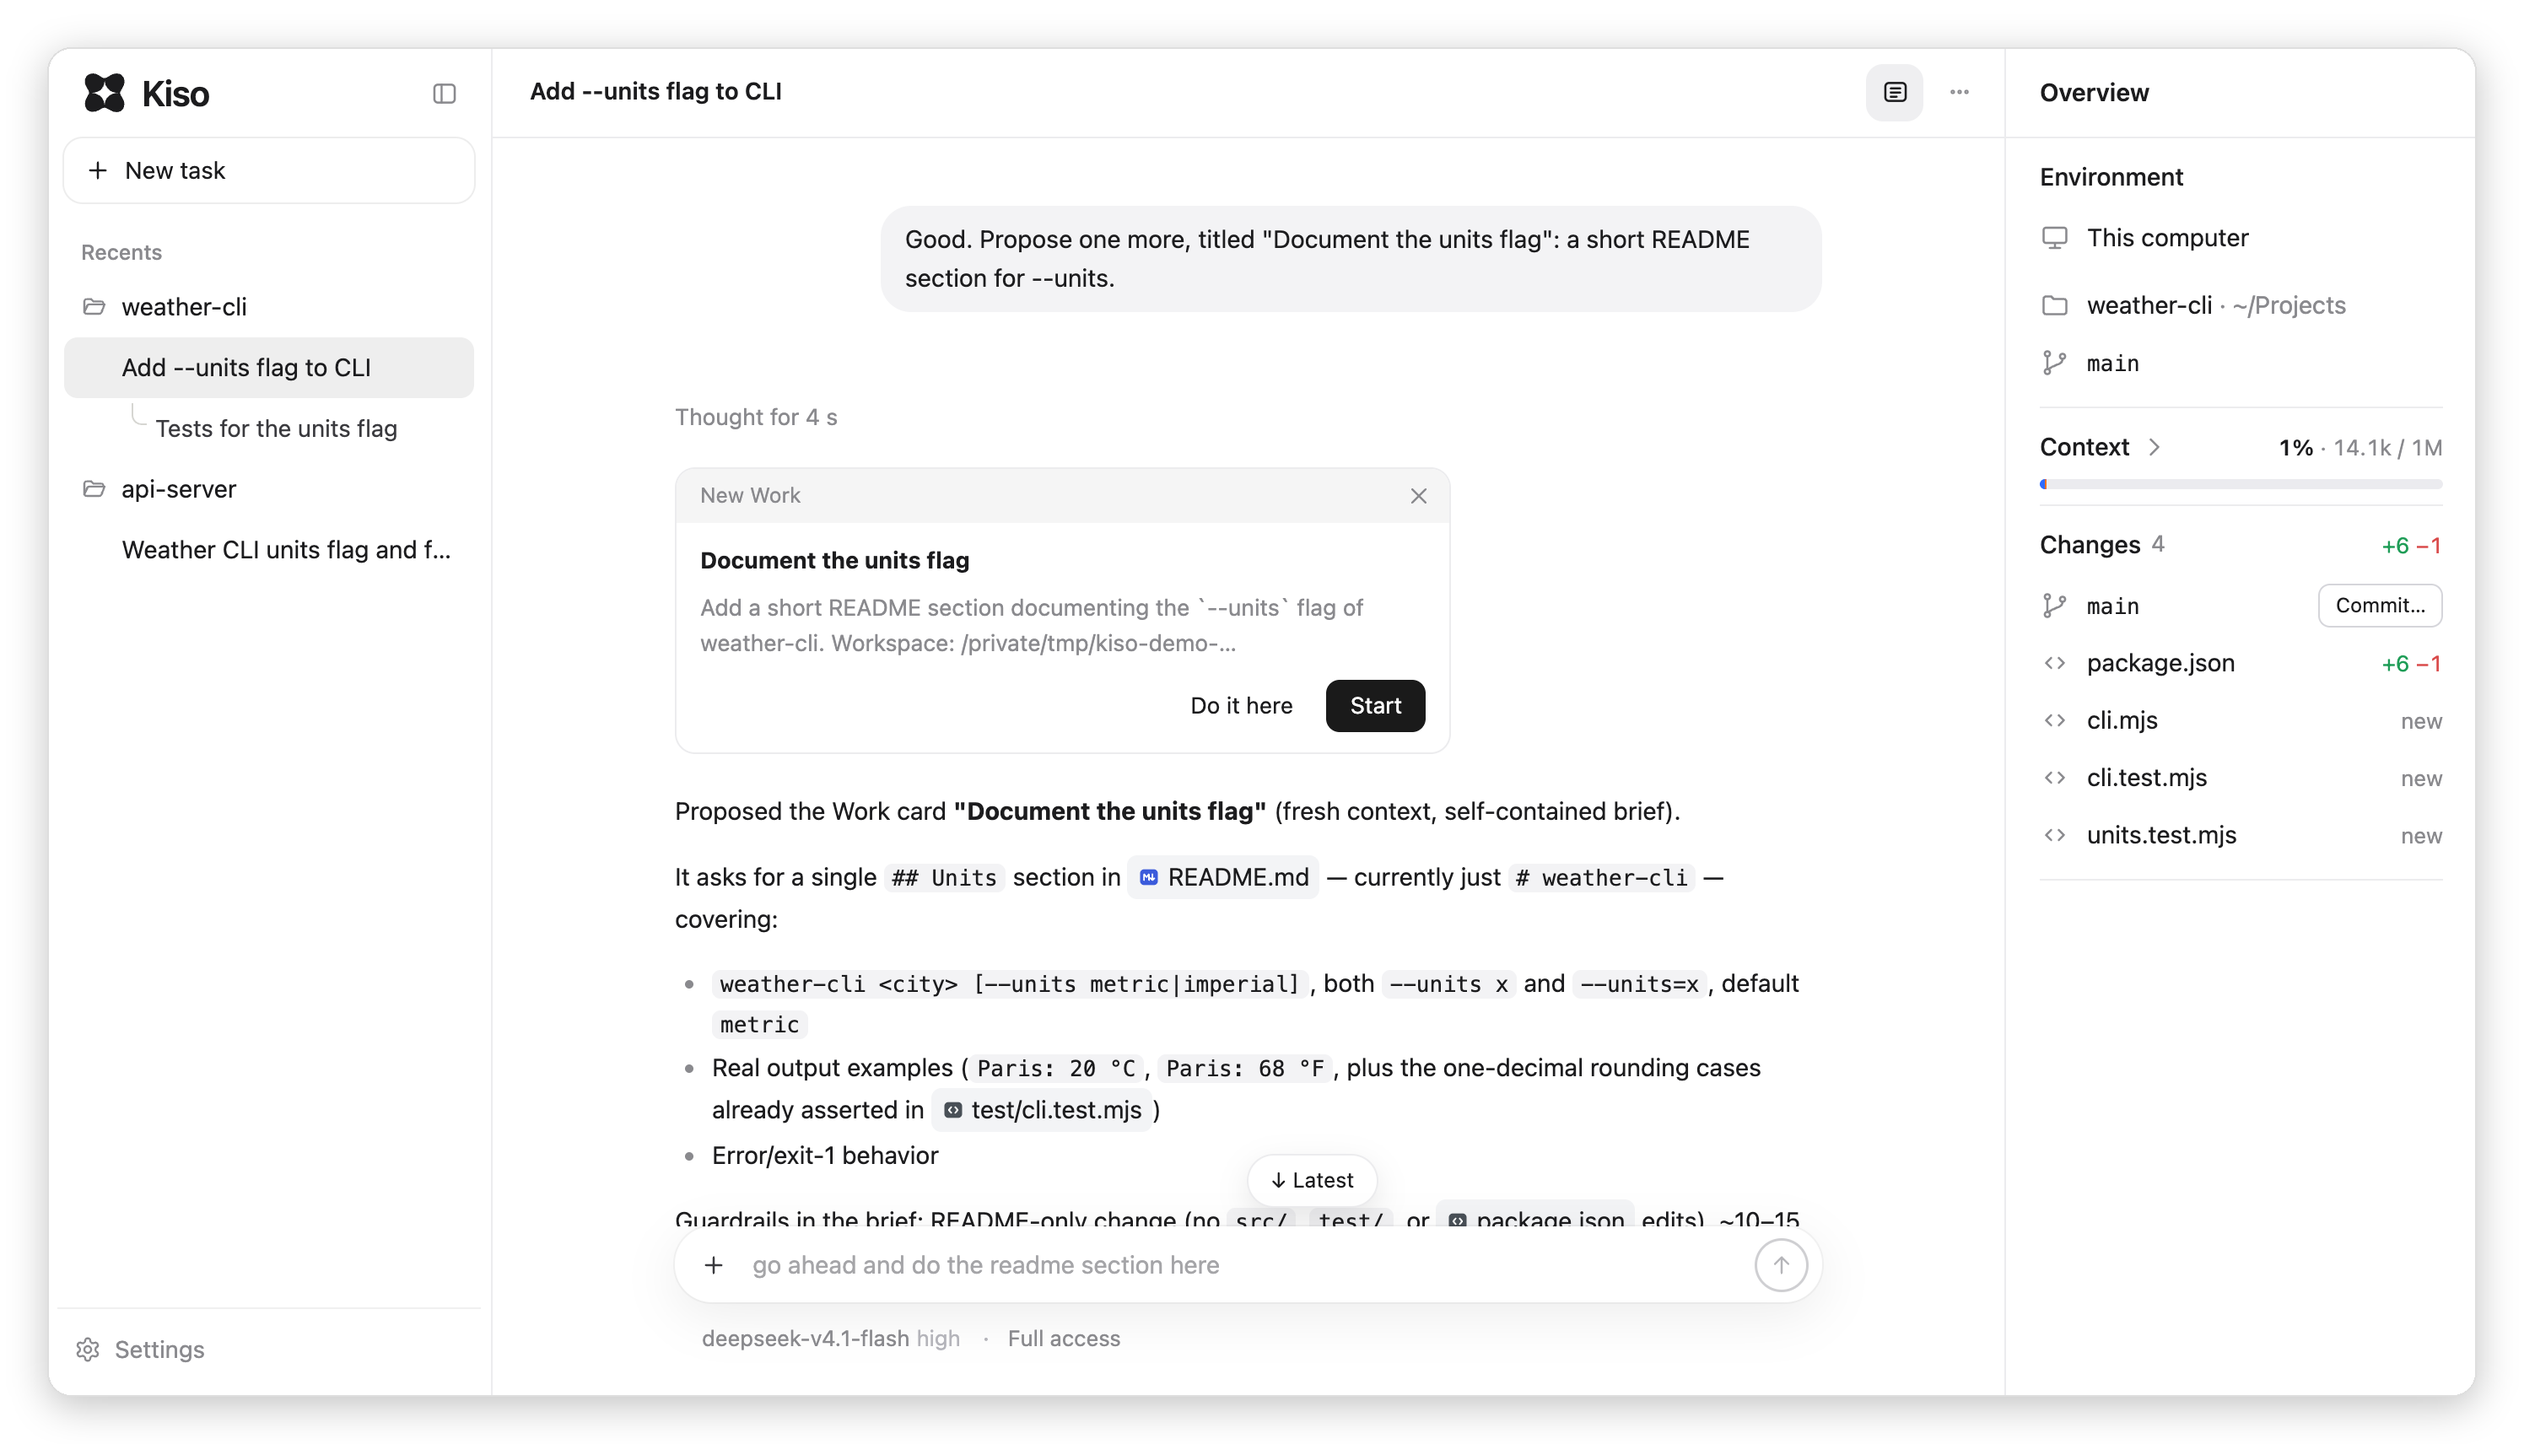
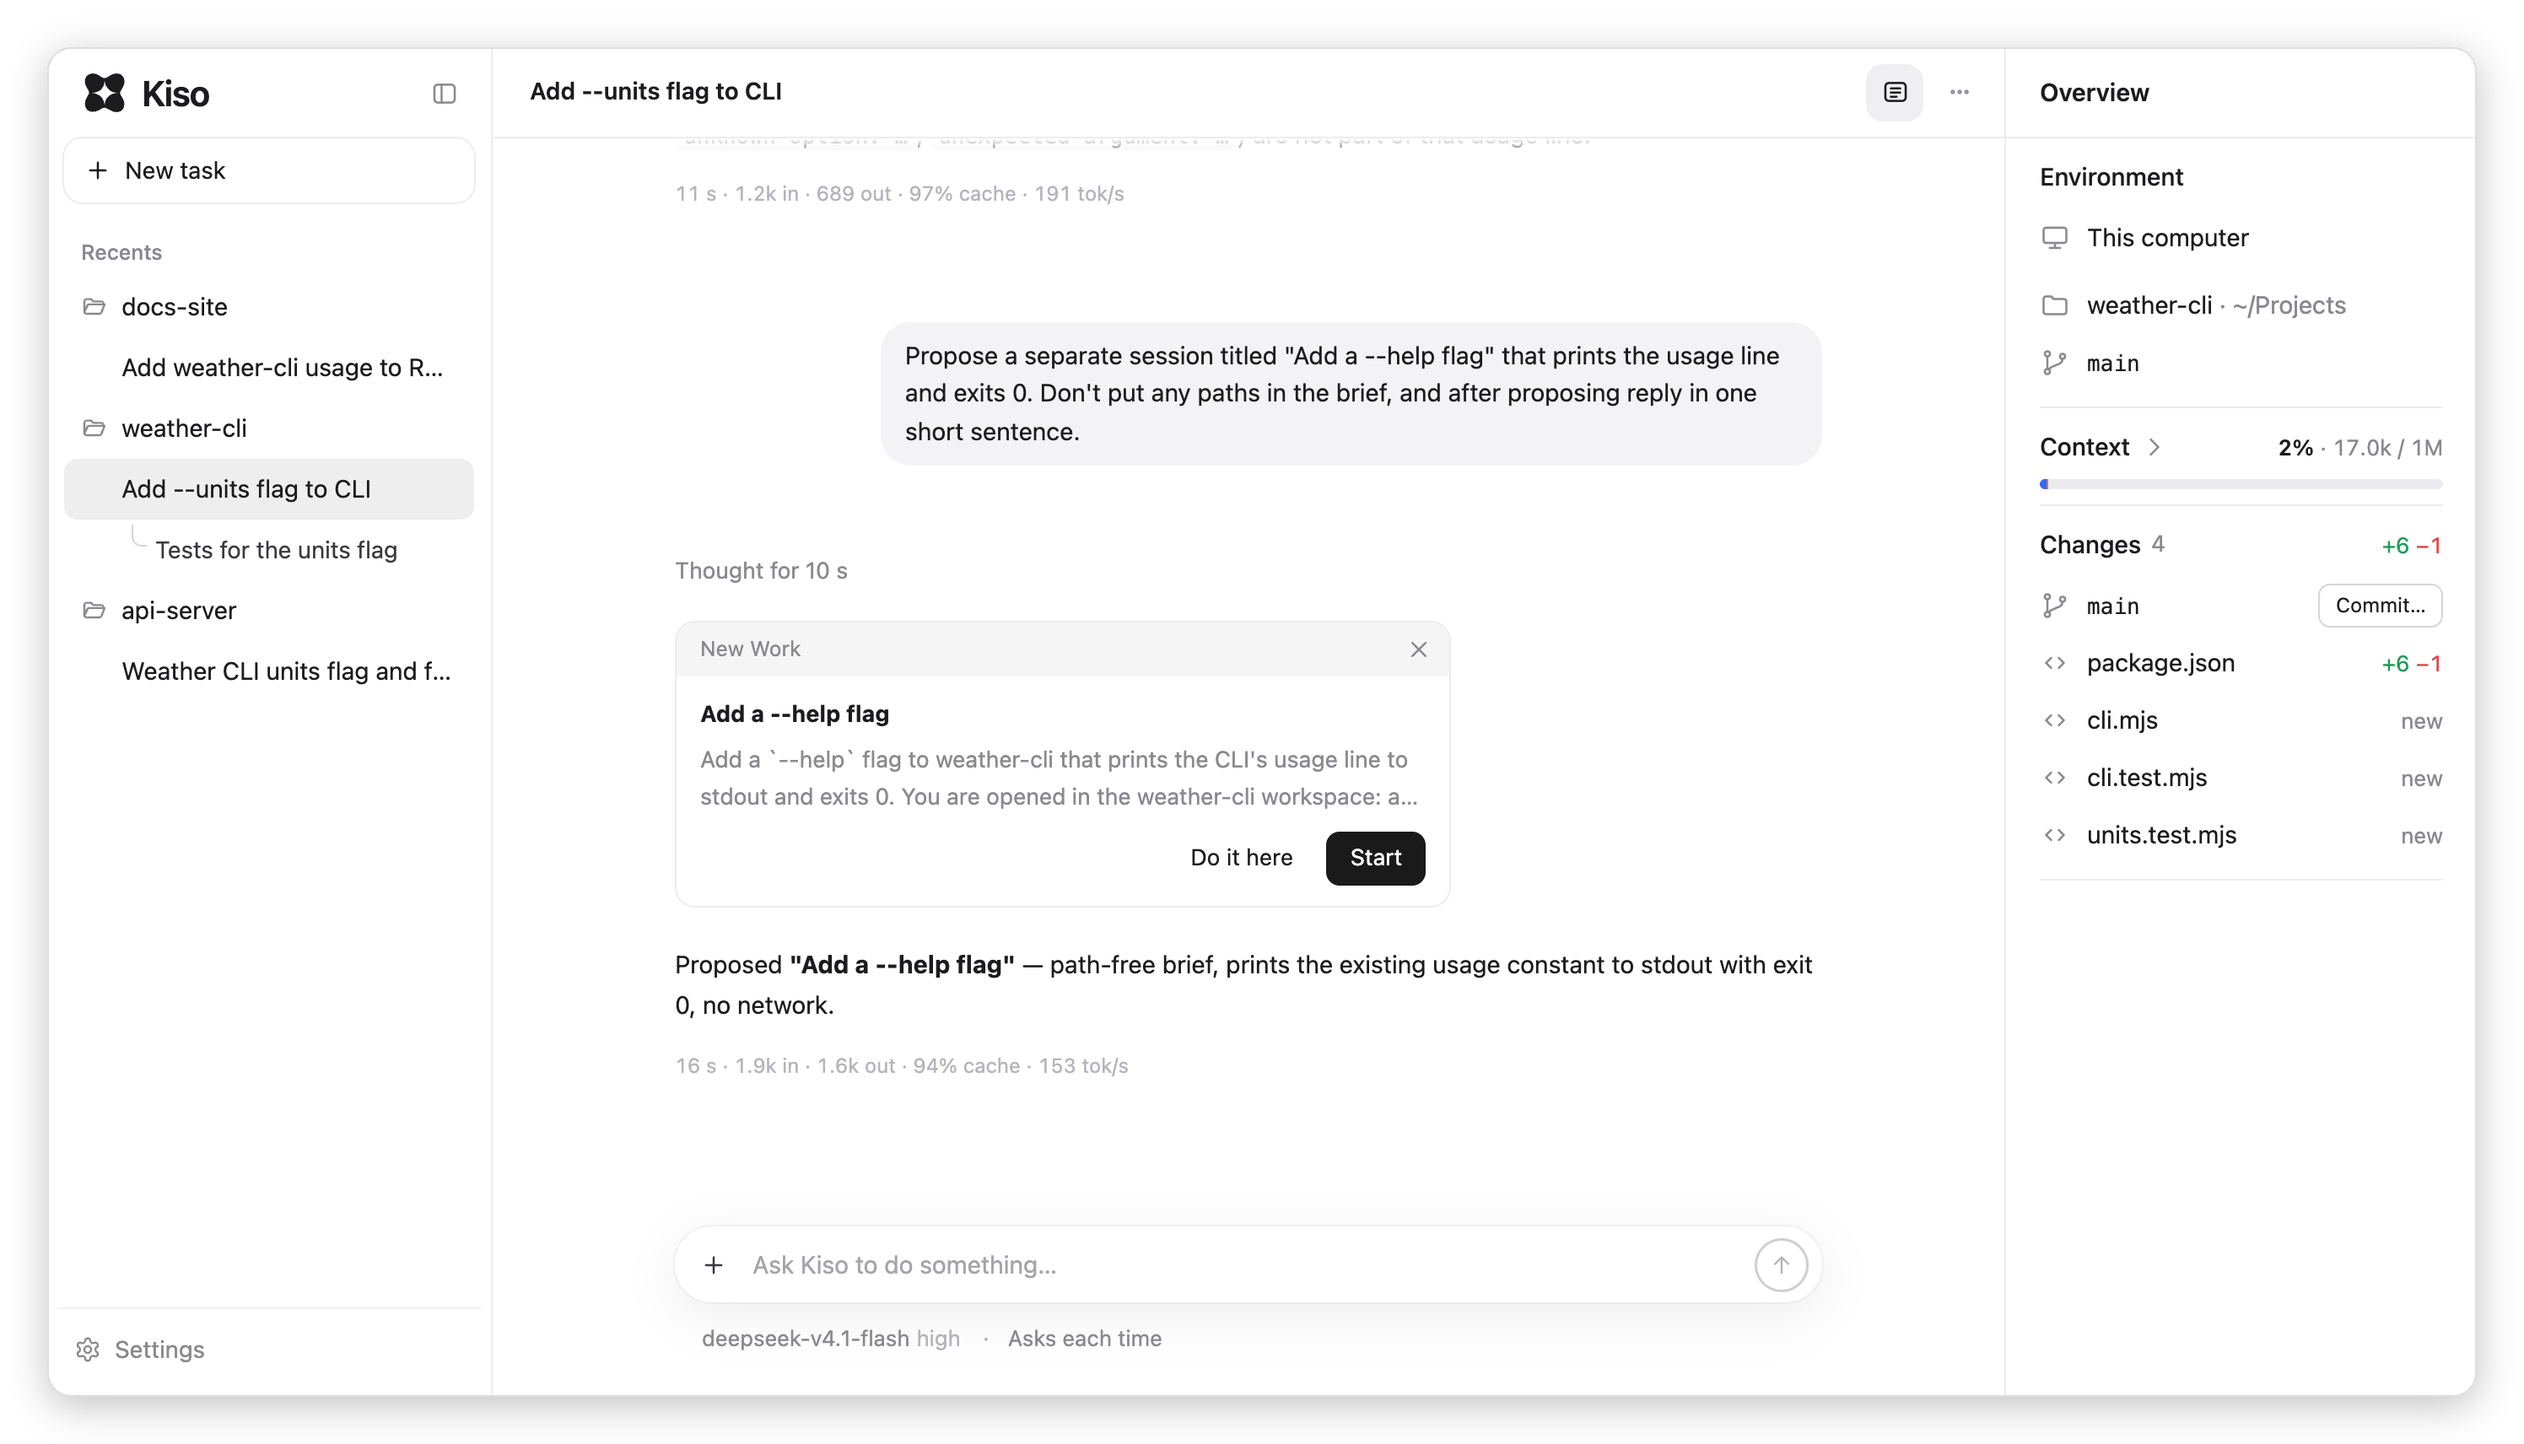
docs: retake the sessions screenshots and mirror the section in README.zh.md
- both screenshots retaken on the same demo host, scrolled to the end so
  no "Latest" pill shows, with the Works on "Asks each time" and
  follow-up suggestions off, so the composer shows its plain placeholder
- web-messages.png: the api-server Work receives the docs-site Work's
  question and answers it; the received row, the sent row and the reply
  are all in view
- web-card.png: a card whose brief carries no path, fully in frame with
  the line under it
- README.zh.md: the same "sessions and messages" section in Chinese,
  kept in step with the English one; alt texts updated in both

diff --git a/README.zh.md b/README.zh.md
@@ -80,6 +80,24 @@ kiso web
 
 登录只在本机进行：命令用一次性代码打开页面，页面用它换取会话 cookie。**已登录的会话就是这台机器 shell 的钥匙**：拿到它的人可以用你的身份执行命令。宿主只监听 127.0.0.1。`kiso web --revoke-sessions` 让所有页面退出登录，之后每个页面都要再从命令登录一次。
 
+### 会话与消息（预览）
+
+默认关闭。用 `KISO_WEB_SESSIONS=on kiso web` 启动后，此后新建的 Work 可以互相联络：
+
+- **`list_sessions` 和 `message`：** 一个 Work 能找到其他 Work 并给其中一个发消息；消息会唤醒对方，对方的回复会回到发送方的地址。
+- **`start_session`：** 一个 Work 可以开出另一个，可以是全新的，也可以从自己分叉。你亲口要的会立刻开始；其余情况先出一张卡片，由你选择开始、在这里做，或者关掉。新 Work 挂在它的父 Work 下面，跑完时父 Work 会收到通知。
+
+kiso web 里还有，默认开启：`ask_user`，模型在消息流里向你提一个带选项的问题（`KISO_WEB_ASK=off` 关闭）。删除一个下面还挂着 Work 的 Work 时，会问你只删它（下面的 Work 上移一层），还是删掉整棵树。
+
+一个 Work 保持创建时的那套工具：在终端开始、再拿到网页里打开的会话没有会话工具，这时请从 New task 新开一个 Work。终端自己的请求不受影响。详见 [docs/web-sessions.md](docs/web-sessions.md)。
+
+<table>
+<tr>
+<td width="50%"><img src="assets/readme/web-messages.png" alt="kiso web：api-server 的 Work 收到 docs-site 的 Work 发来的消息，用 message 工具回复，说明它的服务器监听哪个端口"></td>
+<td width="50%"><img src="assets/readme/web-card.png" alt="kiso web：一张标题为 Add a --help flag 的 New Work 卡片，带「Do it here」和「Start」；侧栏里，早先开出的一个 Work 挂在它的父 Work 下面"></td>
+</tr>
+</table>
+
 ## 它能做什么
 
 ### 断了能接着做

diff --git a/README.md b/README.md
@@ -93,8 +93,8 @@ A Work keeps the tools it was created with: a session started in the terminal an
 
 <table>
 <tr>
-<td width="50%"><img src="assets/readme/web-messages.png" alt="kiso web: the weather-cli Work receives a message from the api-server Work, replies with the message tool, and lists the unit values it accepts"></td>
-<td width="50%"><img src="assets/readme/web-card.png" alt="kiso web: a New Work card titled Document the units flag, with Do it here and Start; in the sidebar, a Work started earlier sits under its parent"></td>
+<td width="50%"><img src="assets/readme/web-messages.png" alt="kiso web: the api-server Work receives a message from the docs-site Work, answers it with the message tool, and states the port its server listens on"></td>
+<td width="50%"><img src="assets/readme/web-card.png" alt="kiso web: a New Work card titled Add a --help flag, with Do it here and Start; in the sidebar, a Work started earlier sits under its parent"></td>
 </tr>
 </table>
 
